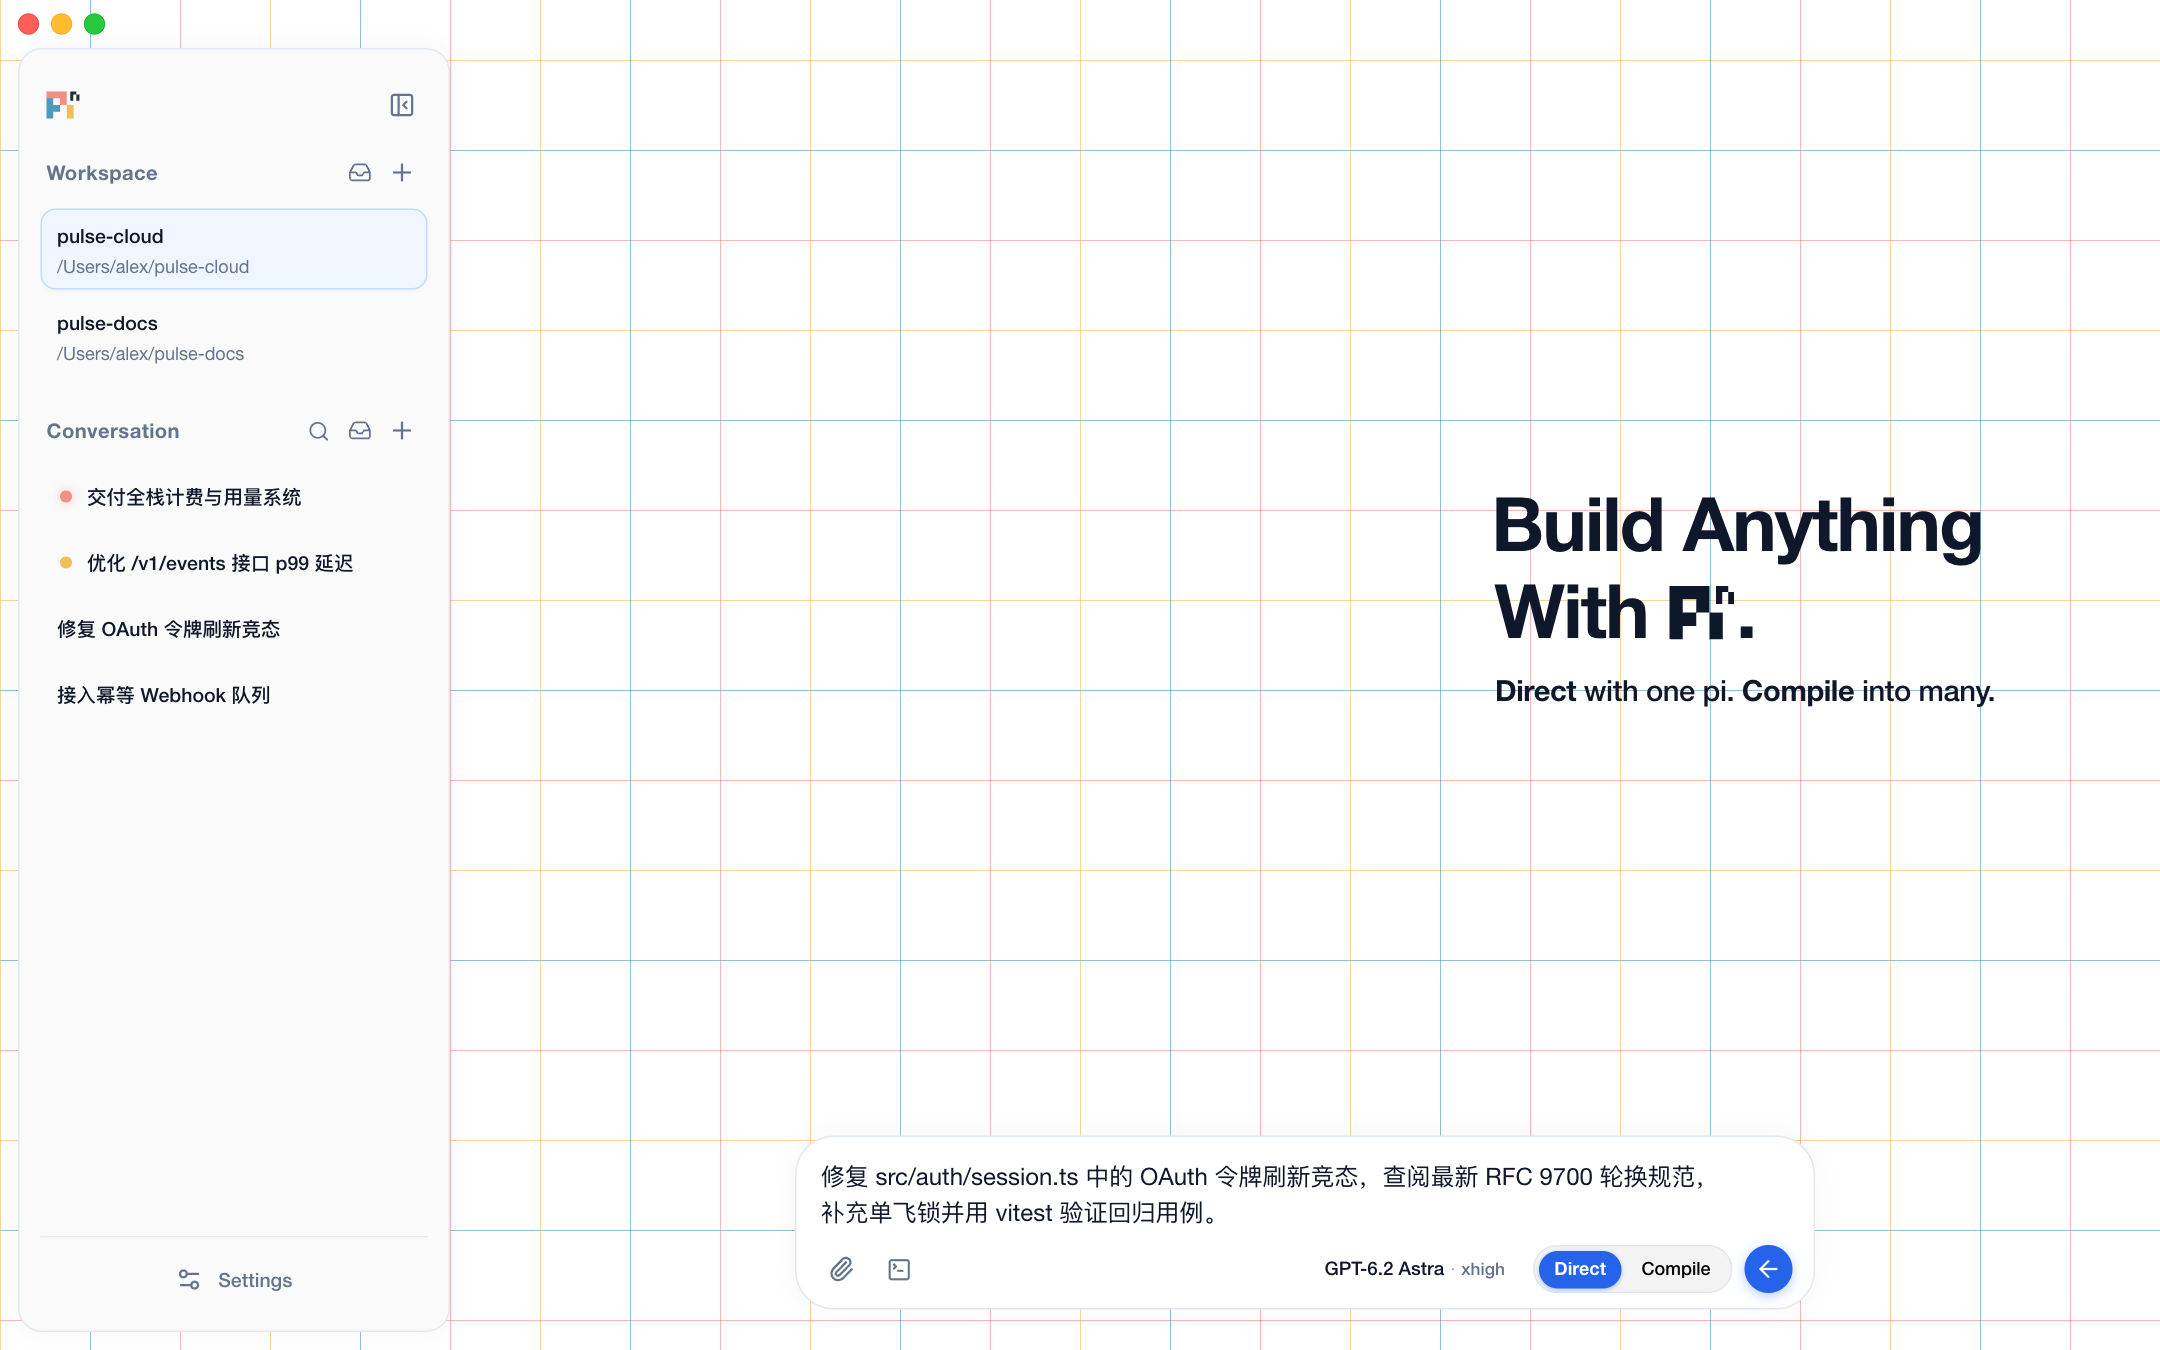
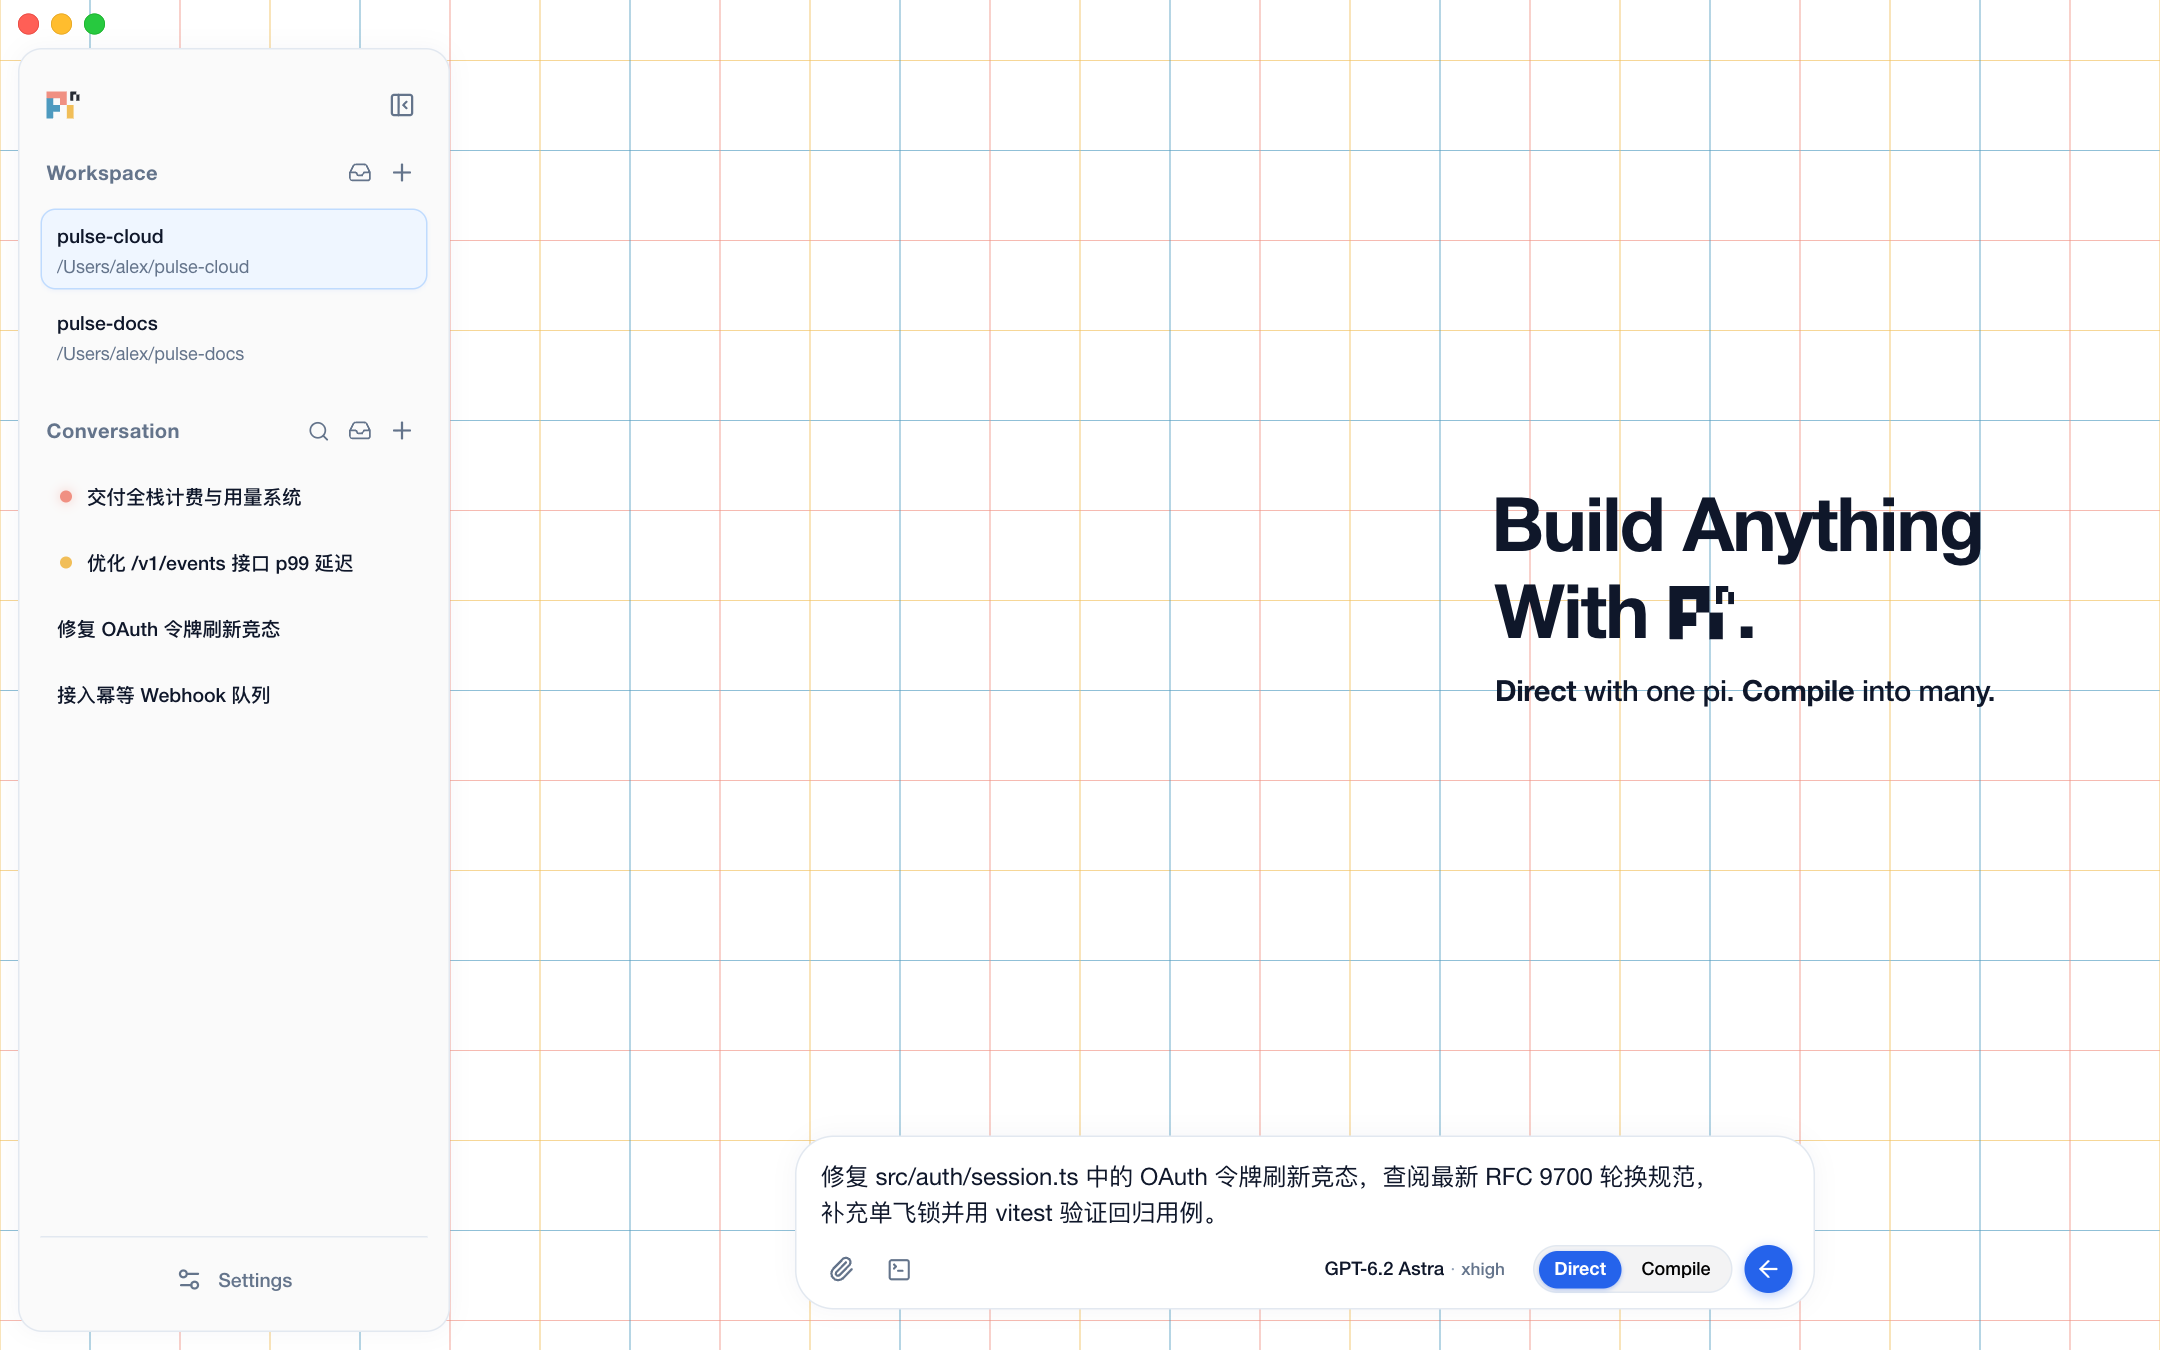
fix(ui): clip home grid strokes evenly at window edges

diff --git a/src/styles.css b/src/styles.css
@@ -1999,10 +1999,8 @@ h3 {
   mask-image: radial-gradient(ellipse 50% 50% at center, white 0%, rgba(255, 255, 255, 0.72) 30%, rgba(255, 255, 255, 0.34) 65%, rgba(255, 255, 255, 0.24) 100%, transparent 145%);
 }
 
-/* Three-colour notebook grid in the icon palette, laid out from the exact
-   centre of its content region: a yellow vertical and a blue horizontal line
-   cross at the midpoint, and each direction cycles yellow/blue/coral outwards
-   from there. */
+/* Three-colour notebook grid in the icon palette. A yellow vertical and a
+   blue horizontal line cross at the centre of the content region. */
 .landing-page-grid,
 .settings-background-preview.settings-background-preview-grid {
   --grid-cell: 60px;
@@ -2014,10 +2012,12 @@ h3 {
   /* A tile positioned at 50% + period/2 starts exactly at the centre line. */
   --grid-origin-x: calc(50% + var(--grid-period) / 2);
   --grid-origin-y: calc(50% + var(--grid-period) / 2 + var(--grid-offset-y, 0px));
+  /* Split each vertical stroke across its tile seam so the viewport edges
+     show equal halves if a grid line falls exactly on both edges. */
   background-image:
-    linear-gradient(90deg, var(--grid-yellow) 0 1px, transparent 1px),
-    linear-gradient(90deg, var(--grid-blue) 0 1px, transparent 1px),
-    linear-gradient(90deg, var(--grid-coral) 0 1px, transparent 1px),
+    linear-gradient(90deg, var(--grid-yellow), transparent 1px calc(100% - 1px), var(--grid-yellow)),
+    linear-gradient(90deg, var(--grid-blue), transparent 1px calc(100% - 1px), var(--grid-blue)),
+    linear-gradient(90deg, var(--grid-coral), transparent 1px calc(100% - 1px), var(--grid-coral)),
     linear-gradient(180deg, var(--grid-blue) 0 1px, transparent 1px),
     linear-gradient(180deg, var(--grid-coral) 0 1px, transparent 1px),
     linear-gradient(180deg, var(--grid-yellow) 0 1px, transparent 1px);

diff --git a/CHANGELOG.md b/CHANGELOG.md
@@ -15,6 +15,7 @@ and this project adheres to [Semantic Versioning](https://semver.org/spec/v2.0.0
 - Hide stale queued-message bubbles in stopped execution history, including after a conversation is reopened or the message is sent again. Delivered messages remain visible in the transcript.
 - Recheck the dev backend with Cargo after switching checkouts or clearing custom Rust flags or dev profile settings. Honor mixed-case build overrides on Windows.
 - Ignore stale sidebar pin actions after a conversation has been removed or archived.
+- Center the vertical home grid strokes so lines at the window edges clip evenly, and refresh the README home screenshots.
 
 ### Changed
 
